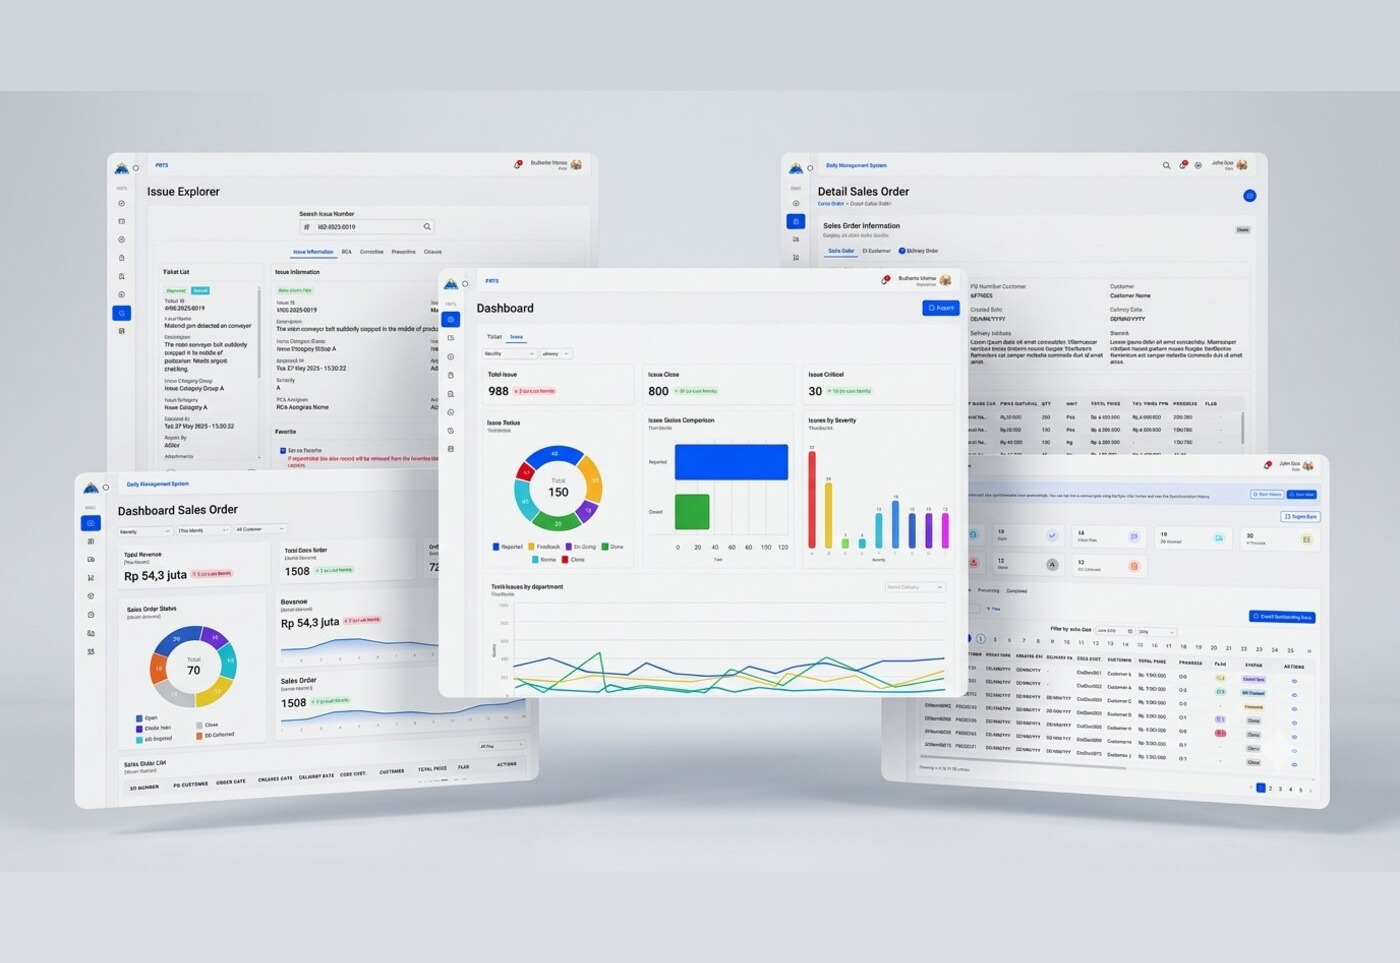
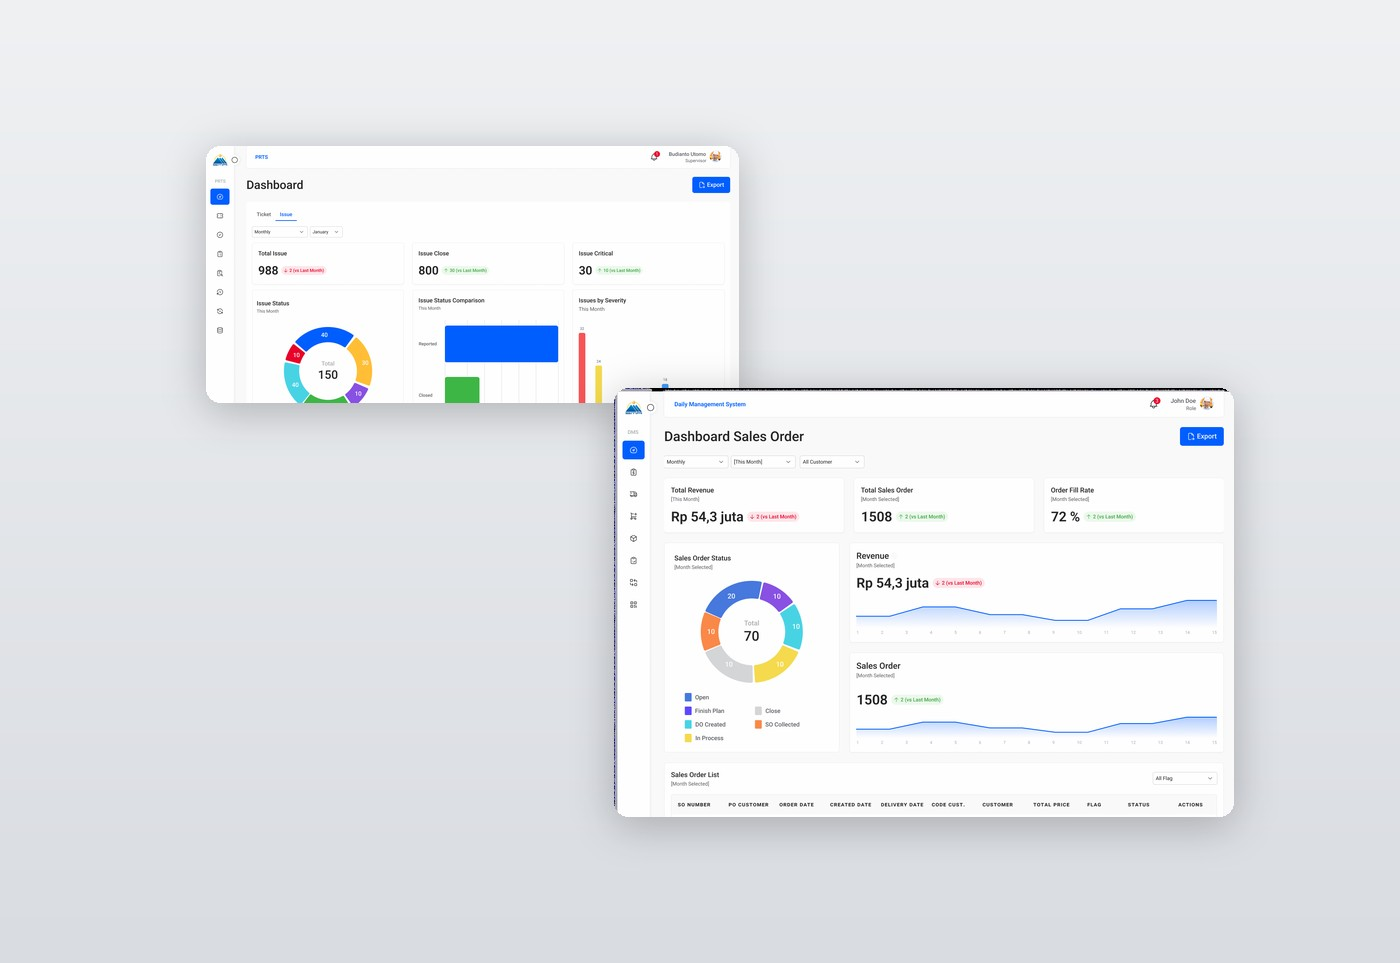
Update Sumber Mas Autorindo images with real screenshots and fix carousel image cropping bug

diff --git a/project-sumbermas.html b/project-sumbermas.html
@@ -74,9 +74,24 @@
         <h2 data-i18n="pd.sumbermasDmsTitle">DMS — Daily Management System</h2>
         <p data-i18n="pd.sumbermasDmsDesc">DMS di PT Sumber Mas Autorindo memberikan ringkasan kinerja penjualan harian — total revenue, jumlah sales order, dan status pesanan — agar tim dapat mengevaluasi capaian operasional secara cepat dan terstruktur.</p>
       </div>
-      <div class="carousel" data-carousel>
-        <div class="carousel-track">
-          <img src="assets/img/sumbermas-dms-1.jpg" alt="Dashboard DMS — Dashboard Sales Order">
+      <div class="carousel-wrap" data-carousel>
+        <div class="carousel">
+          <div class="carousel-track">
+            <img src="assets/img/sumbermas-dms-1.jpg" alt="Dashboard DMS — Dashboard Sales Order">
+            <img src="assets/img/sumbermas-dms-2.jpg" alt="Dashboard DMS — Detail Sales Order">
+            <img src="assets/img/sumbermas-dms-3.jpg" alt="Dashboard DMS — List Sales Order">
+          </div>
+          <button class="carousel-btn prev" aria-label="Sebelumnya">
+            <svg viewBox="0 0 24 24" fill="none" stroke="currentColor" stroke-width="1.8"><path d="M15 18l-6-6 6-6"/></svg>
+          </button>
+          <button class="carousel-btn next" aria-label="Berikutnya">
+            <svg viewBox="0 0 24 24" fill="none" stroke="currentColor" stroke-width="1.8"><path d="M9 18l6-6-6-6"/></svg>
+          </button>
+        </div>
+        <div class="carousel-dots">
+          <button class="carousel-dot active" aria-label="Gambar 1"></button>
+          <button class="carousel-dot" aria-label="Gambar 2"></button>
+          <button class="carousel-dot" aria-label="Gambar 3"></button>
         </div>
       </div>
     </div>
@@ -90,9 +105,24 @@
         <h2 data-i18n="pd.sumbermasPrtsTitle">PRTS — Problem Resolution Tracking System</h2>
         <p data-i18n="pd.sumbermasPrtsDesc">PRTS mengelola pelaporan dan penyelesaian isu operasional lintas departemen, lengkap dengan status tiket, tingkat urgensi, dan analisis jumlah isu per departemen untuk membantu prioritas tindak lanjut.</p>
       </div>
-      <div class="carousel" data-carousel>
-        <div class="carousel-track">
-          <img src="assets/img/sumbermas-prts-1.jpg" alt="Dashboard PRTS — Issue Dashboard">
+      <div class="carousel-wrap" data-carousel>
+        <div class="carousel">
+          <div class="carousel-track">
+            <img src="assets/img/sumbermas-prts-1.jpg" alt="Dashboard PRTS — Issue Dashboard">
+            <img src="assets/img/sumbermas-prts-2.jpg" alt="Dashboard PRTS — Issue Explorer Detail">
+            <img src="assets/img/sumbermas-prts-3.jpg" alt="Dashboard PRTS — Issue Management">
+          </div>
+          <button class="carousel-btn prev" aria-label="Sebelumnya">
+            <svg viewBox="0 0 24 24" fill="none" stroke="currentColor" stroke-width="1.8"><path d="M15 18l-6-6 6-6"/></svg>
+          </button>
+          <button class="carousel-btn next" aria-label="Berikutnya">
+            <svg viewBox="0 0 24 24" fill="none" stroke="currentColor" stroke-width="1.8"><path d="M9 18l6-6-6-6"/></svg>
+          </button>
+        </div>
+        <div class="carousel-dots">
+          <button class="carousel-dot active" aria-label="Gambar 1"></button>
+          <button class="carousel-dot" aria-label="Gambar 2"></button>
+          <button class="carousel-dot" aria-label="Gambar 3"></button>
         </div>
       </div>
     </div>

diff --git a/css/style.css b/css/style.css
@@ -505,7 +505,7 @@ a.contact-row:hover{border-color:var(--accent); transform:translateY(-2px);}
 .module-head p{color:var(--ink-soft); font-size:.98rem;}
 
 .carousel{position:relative; border-radius:var(--radius-m); overflow:hidden; border:1px solid var(--line); background:var(--panel-2);}
-.carousel-track{display:flex; transition:transform .4s var(--ease);}
+.carousel-track{display:flex; align-items:flex-start; transition:transform .4s var(--ease);}
 .carousel-track img{width:100%; flex-shrink:0; display:block; object-fit:cover; object-position:top;}
 .carousel-btn{
   position:absolute; top:50%; transform:translateY(-50%); width:40px; height:40px; border-radius:50%;
